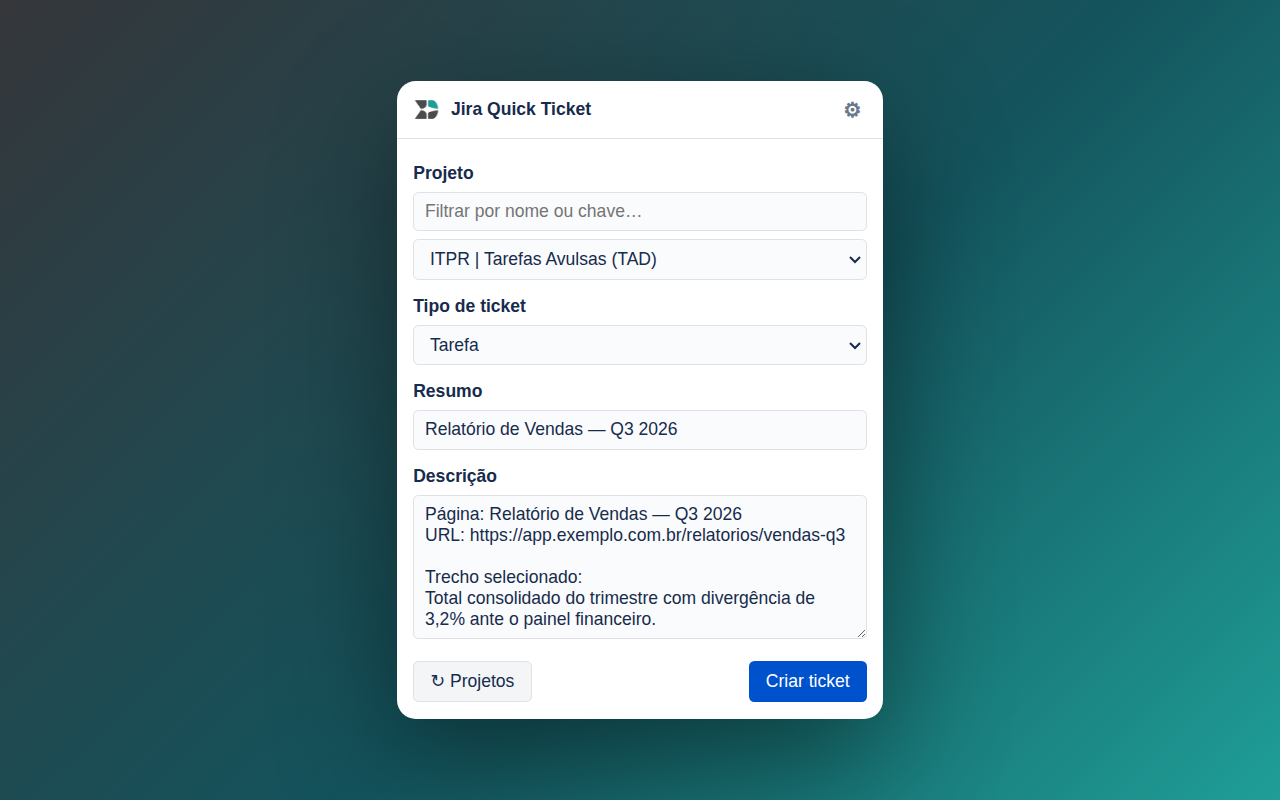
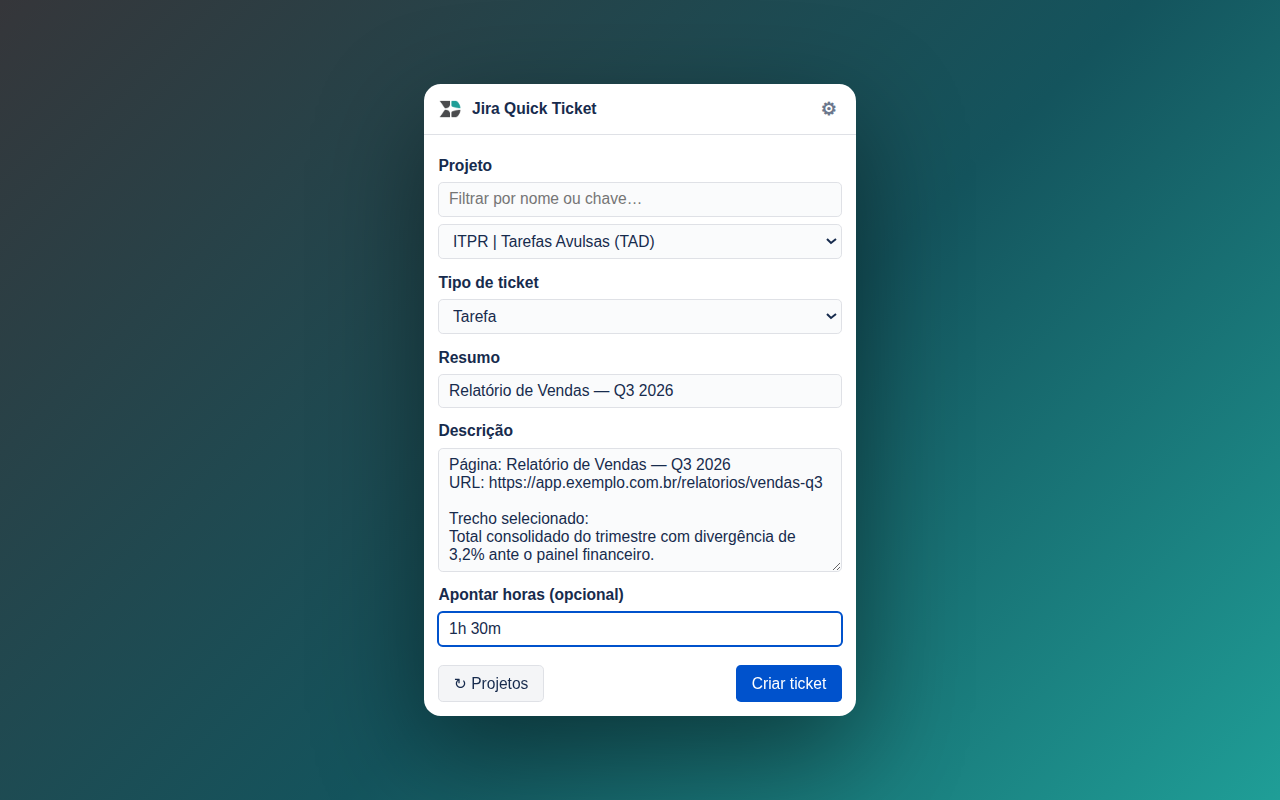
Apontamento de horas opcional na criação do ticket (v1.1.0)
Novo campo "Apontar horas (opcional)" no popup: após criar o ticket, a
extensão registra o worklog via POST /rest/api/3/issue/{key}/worklog.
Entradas amigáveis são normalizadas ("2" → 2h, "1,5" e "1:30" → 1h 30m);
formatos nativos do Jira (1h 30m, 45m, 1d) passam direto. Se o registro
de horas falhar (ex.: desabilitado no projeto), o ticket permanece criado
e o popup mostra o aviso. Capturas da loja atualizadas com o novo campo.

Claude-Session: https://claude.ai/code/session_01C7Kk7AgYsoMZCtXbrf7KnV

Changed region(s): [[0.3125, 0.0938, 0.6875, 0.9062]]

diff --git a/popup.js b/popup.js
@@ -1,5 +1,13 @@
 // Popup: captura a página atual, deixa escolher projeto/tipo e cria o ticket.
-import { getSettings, fetchProjects, fetchIssueTypes, createIssue, browseUrl } from './jira.js';
+import {
+  getSettings,
+  fetchProjects,
+  fetchIssueTypes,
+  createIssue,
+  browseUrl,
+  normalizeTimeSpent,
+  addWorklog,
+} from './jira.js';
 
 const $ = (id) => document.getElementById(id);
 const VIEWS = ['view-loading', 'view-setup', 'view-form', 'view-success'];
@@ -138,6 +146,8 @@ async function onCreate() {
     return;
   }
 
+  const timeSpent = normalizeTimeSpent($('time-spent').value);
+
   const btn = $('btn-create');
   btn.disabled = true;
   btn.textContent = 'Criando…';
@@ -154,6 +164,20 @@ async function onCreate() {
       lastIssueTypeByProject: { ...(prefs.lastIssueTypeByProject || {}), [projectId]: issueTypeId },
     };
     await chrome.storage.local.set({ prefs });
+
+    let worklogNote = '';
+    if (timeSpent) {
+      try {
+        await addWorklog(settings, issue.key, timeSpent);
+        worklogNote = `⏱ ${timeSpent} apontado no ticket`;
+      } catch (err) {
+        worklogNote = `⚠ Ticket criado, mas o apontamento de horas falhou: ${err.message}`;
+      }
+    }
+    const worklogBox = $('worklog-status');
+    worklogBox.textContent = worklogNote;
+    worklogBox.hidden = !worklogNote;
+
     const link = $('ticket-link');
     link.textContent = issue.key;
     link.href = browseUrl(settings, issue.key);
@@ -210,6 +234,7 @@ async function init() {
   $('btn-copy').addEventListener('click', copyTicketKey);
   $('btn-again').addEventListener('click', () => {
     hideError();
+    $('time-spent').value = ''; // horas valem para um ticket só
     showView('view-form');
   });
 

diff --git a/jira.js b/jira.js
@@ -129,6 +129,37 @@ export async function createIssue(settings, { projectId, issueTypeId, summary, d
   return jiraFetch(settings, '/rest/api/3/issue', { method: 'POST', body: JSON.stringify({ fields }) });
 }
 
+// Converte entradas amigáveis em duração do Jira: "2" → "2h", "1,5" → "1h 30m",
+// "1:30" → "1h 30m". Formatos que o Jira já aceita ("1h 30m", "45m", "1d") passam direto.
+export function normalizeTimeSpent(raw) {
+  const text = (raw || '').trim().toLowerCase();
+  if (!text) return null;
+  const decimal = text.match(/^(\d+)(?:[.,](\d+))?$/);
+  if (decimal) {
+    return formatDuration(parseInt(decimal[1], 10), decimal[2] ? Math.round(parseFloat(`0.${decimal[2]}`) * 60) : 0);
+  }
+  const clock = text.match(/^(\d+):(\d{1,2})$/);
+  if (clock) return formatDuration(parseInt(clock[1], 10), parseInt(clock[2], 10));
+  return text;
+}
+
+function formatDuration(hours, minutes) {
+  hours += Math.floor(minutes / 60);
+  minutes %= 60;
+  const parts = [];
+  if (hours) parts.push(`${hours}h`);
+  if (minutes) parts.push(`${minutes}m`);
+  return parts.length ? parts.join(' ') : null;
+}
+
+// Registra horas trabalhadas (worklog) no ticket.
+export async function addWorklog(settings, issueKey, timeSpent) {
+  return jiraFetch(settings, `/rest/api/3/issue/${issueKey}/worklog`, {
+    method: 'POST',
+    body: JSON.stringify({ timeSpent }),
+  });
+}
+
 export async function testConnection(settings) {
   return jiraFetch(settings, '/rest/api/3/myself');
 }

diff --git a/popup.html b/popup.html
@@ -36,6 +36,9 @@
         <label for="description">Descrição</label>
         <textarea id="description" rows="6"></textarea>
 
+        <label for="time-spent">Apontar horas (opcional)</label>
+        <input id="time-spent" type="text" placeholder="ex.: 1h 30m • 45m • 2 • 1:30" autocomplete="off" />
+
         <div id="form-error" class="error" hidden></div>
 
         <div class="actions">
@@ -49,6 +52,7 @@
       <p class="success-label">Ticket criado!</p>
       <a id="ticket-link" class="ticket-key" target="_blank" rel="noreferrer" href="#"></a>
       <p id="ticket-summary" class="muted"></p>
+      <p id="worklog-status" class="muted" hidden></p>
       <div class="actions">
         <button id="btn-copy" class="ghost" type="button">Copiar chave</button>
         <button id="btn-again" class="primary" type="button">Criar outro</button>

diff --git a/README.md b/README.md
@@ -5,7 +5,8 @@ Extensão (Manifest V3) que cria tickets no Jira a partir da página atual do na
 1. Clique no ícone da extensão em qualquer página;
 2. Ela captura **título, URL e texto selecionado** e pré-preenche o formulário;
 3. Você escolhe o **projeto** e o **tipo de ticket** (listas carregadas do próprio Jira);
-4. Ao criar, ela mostra o **número do ticket** (ex.: `TAD-123`) com link direto e botão de copiar.
+4. (Opcional) Informe as **horas trabalhadas** — viram worklog no ticket recém-criado;
+5. Ao criar, ela mostra o **número do ticket** (ex.: `TAD-123`) com link direto e botão de copiar.
 
 Substitui o bookmarklet que enviava os dados para um webhook do Zapier.
 
@@ -52,6 +53,8 @@ com um usuário de integração.
 - O **resumo** vem pré-preenchido com o título da página (editável);
 - A **descrição** traz título, URL e o trecho selecionado na página, se houver;
 - Os últimos **projeto e tipo usados** ficam memorizados como padrão;
+- **Apontar horas (opcional)**: aceita `1h 30m`, `45m`, `2` (= 2h), `1,5` (= 1h 30m) ou `1:30`;
+  o apontamento é registrado como worklog no ticket logo após a criação;
 - A lista de projetos é cacheada por 24 h — o botão **↻ Projetos** força a atualização;
 - Após criar, use **Copiar chave** ou clique no número para abrir o ticket no Jira.
 
@@ -95,6 +98,8 @@ privacidade em [`PRIVACY.md`](PRIVACY.md) — a URL pública desse arquivo serve
 
 - Projetos cujo tipo de ticket exige **campos obrigatórios extras** (além de resumo/descrição)
   retornam o erro do Jira no popup — crie por lá ou ajuste a tela de criação do projeto;
+- Se o **registro de horas** estiver desabilitado no projeto, o ticket é criado normalmente
+  e o popup avisa que o apontamento falhou;
 - Sites Jira com **domínio próprio** (fora de `*.atlassian.net`) exigem ajustar
   `host_permissions` no `manifest.json`;
 - Em páginas restritas (`chrome://…`, Chrome Web Store) a extensão funciona,
